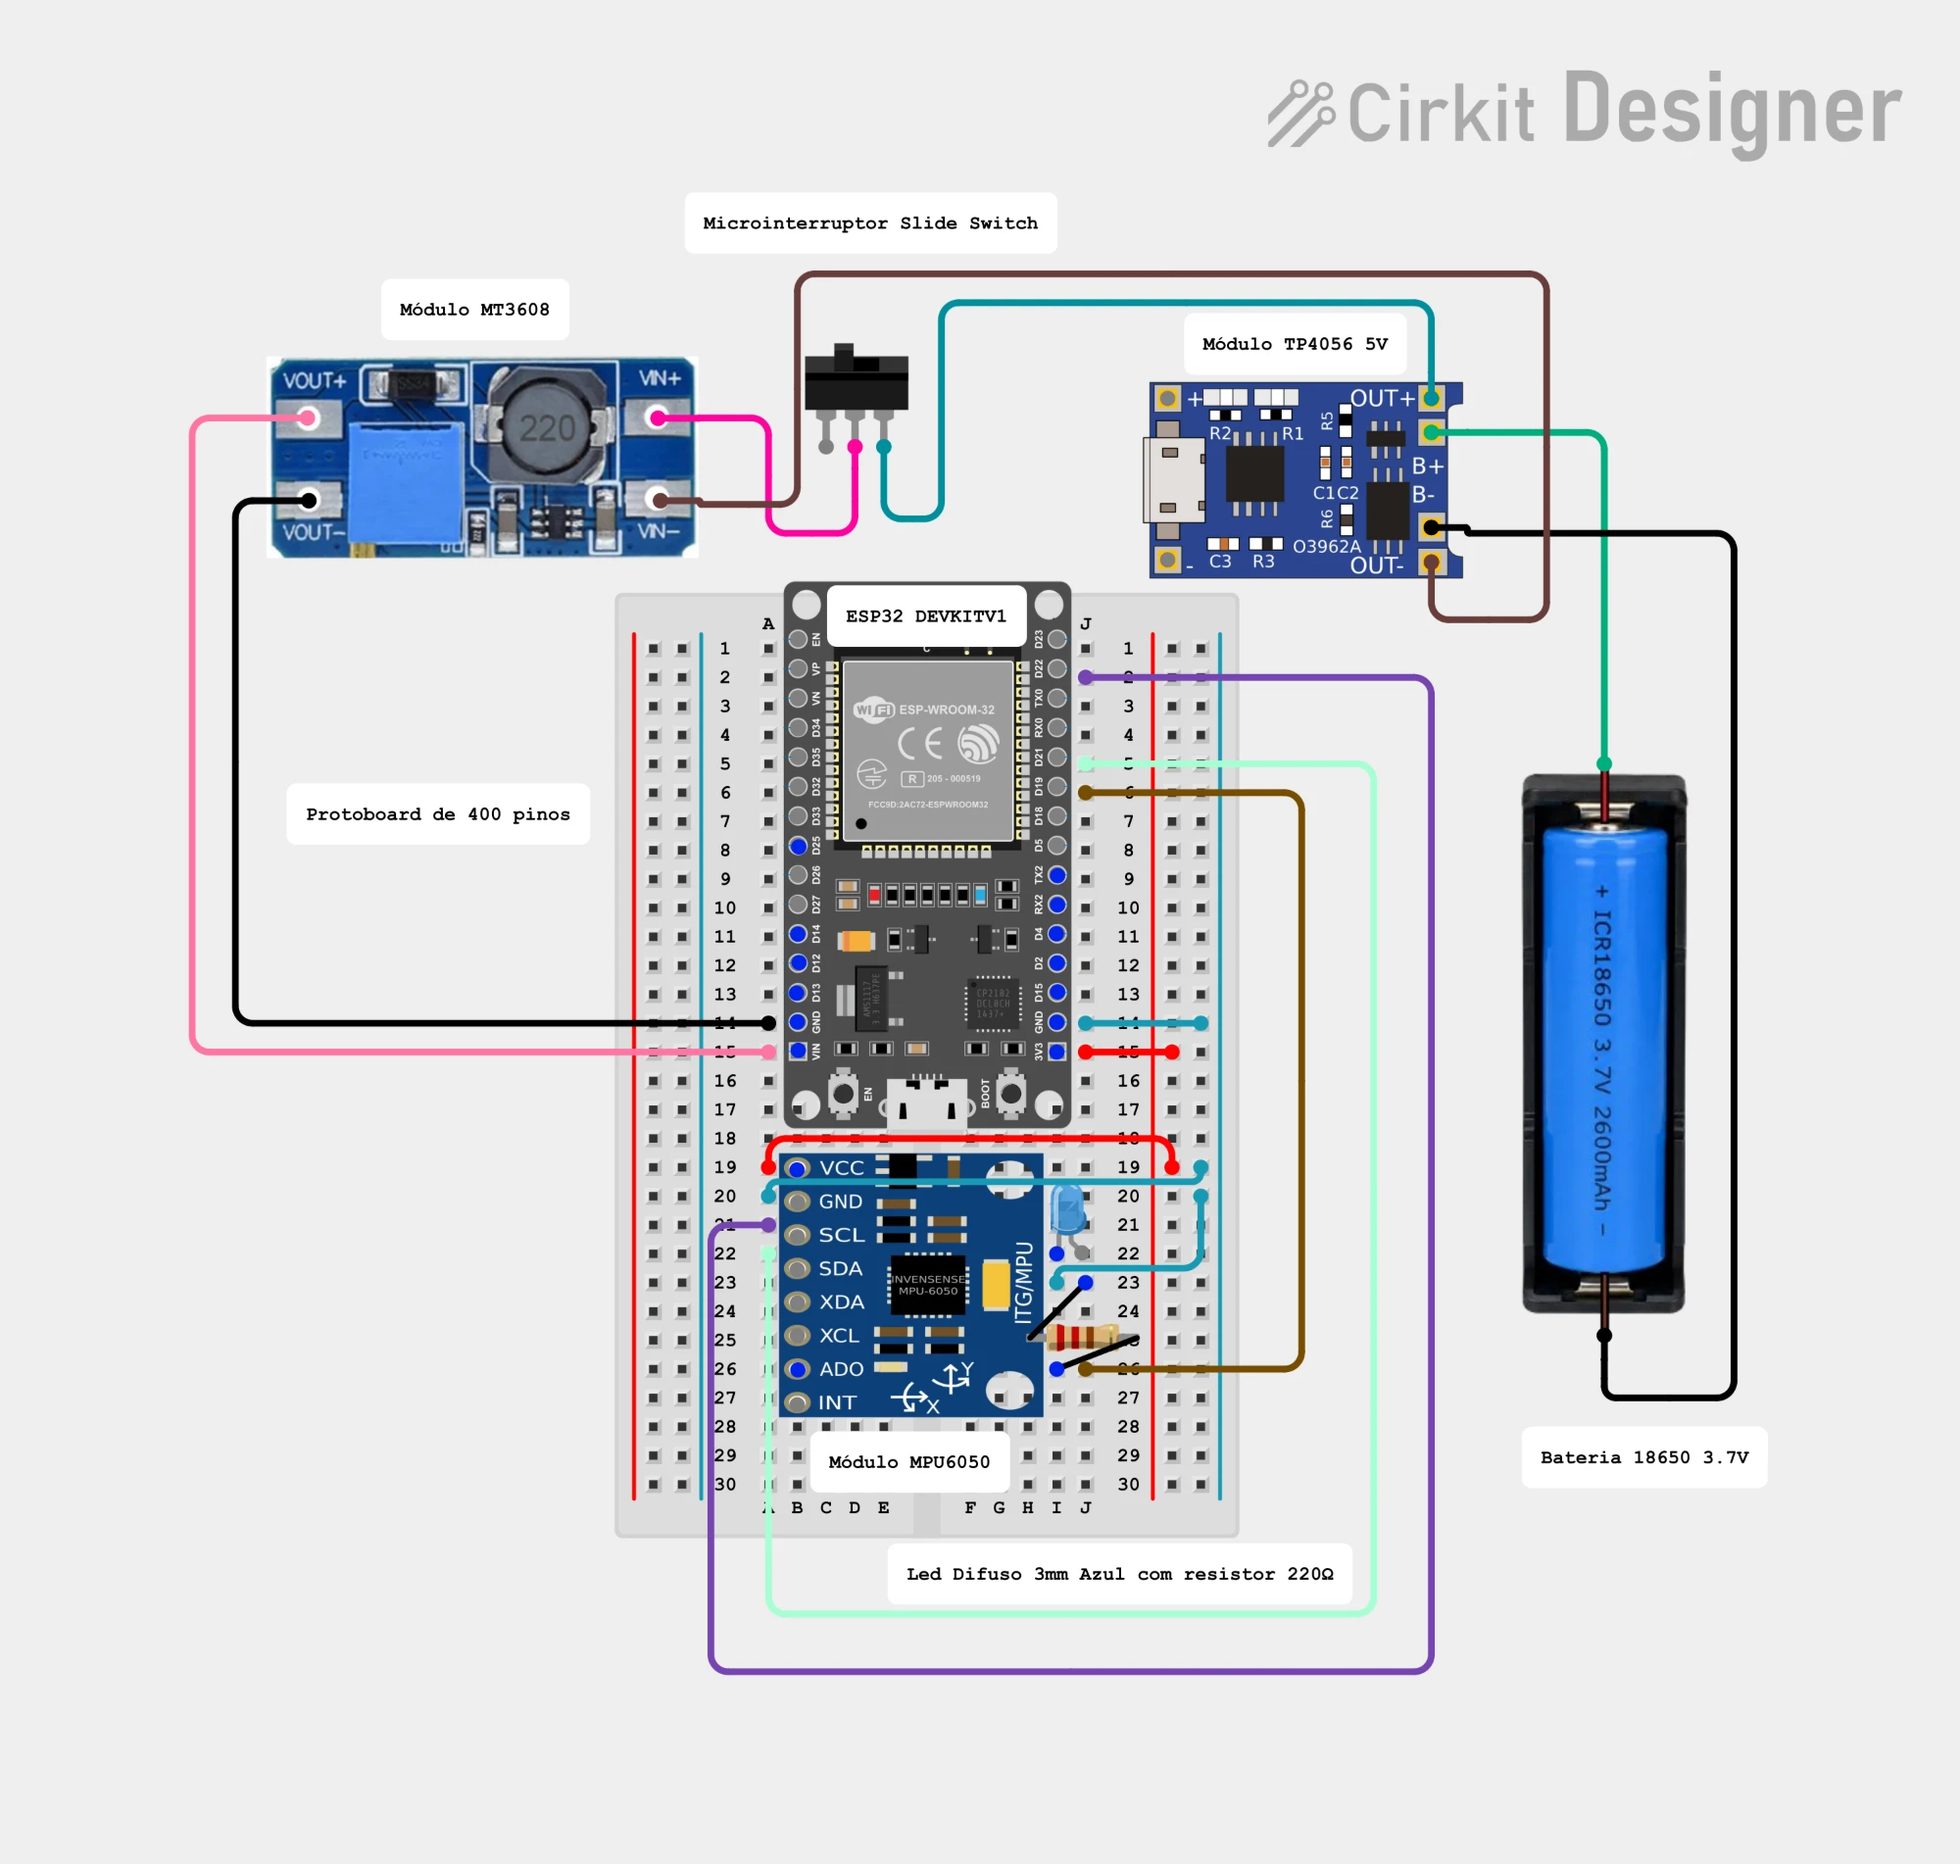
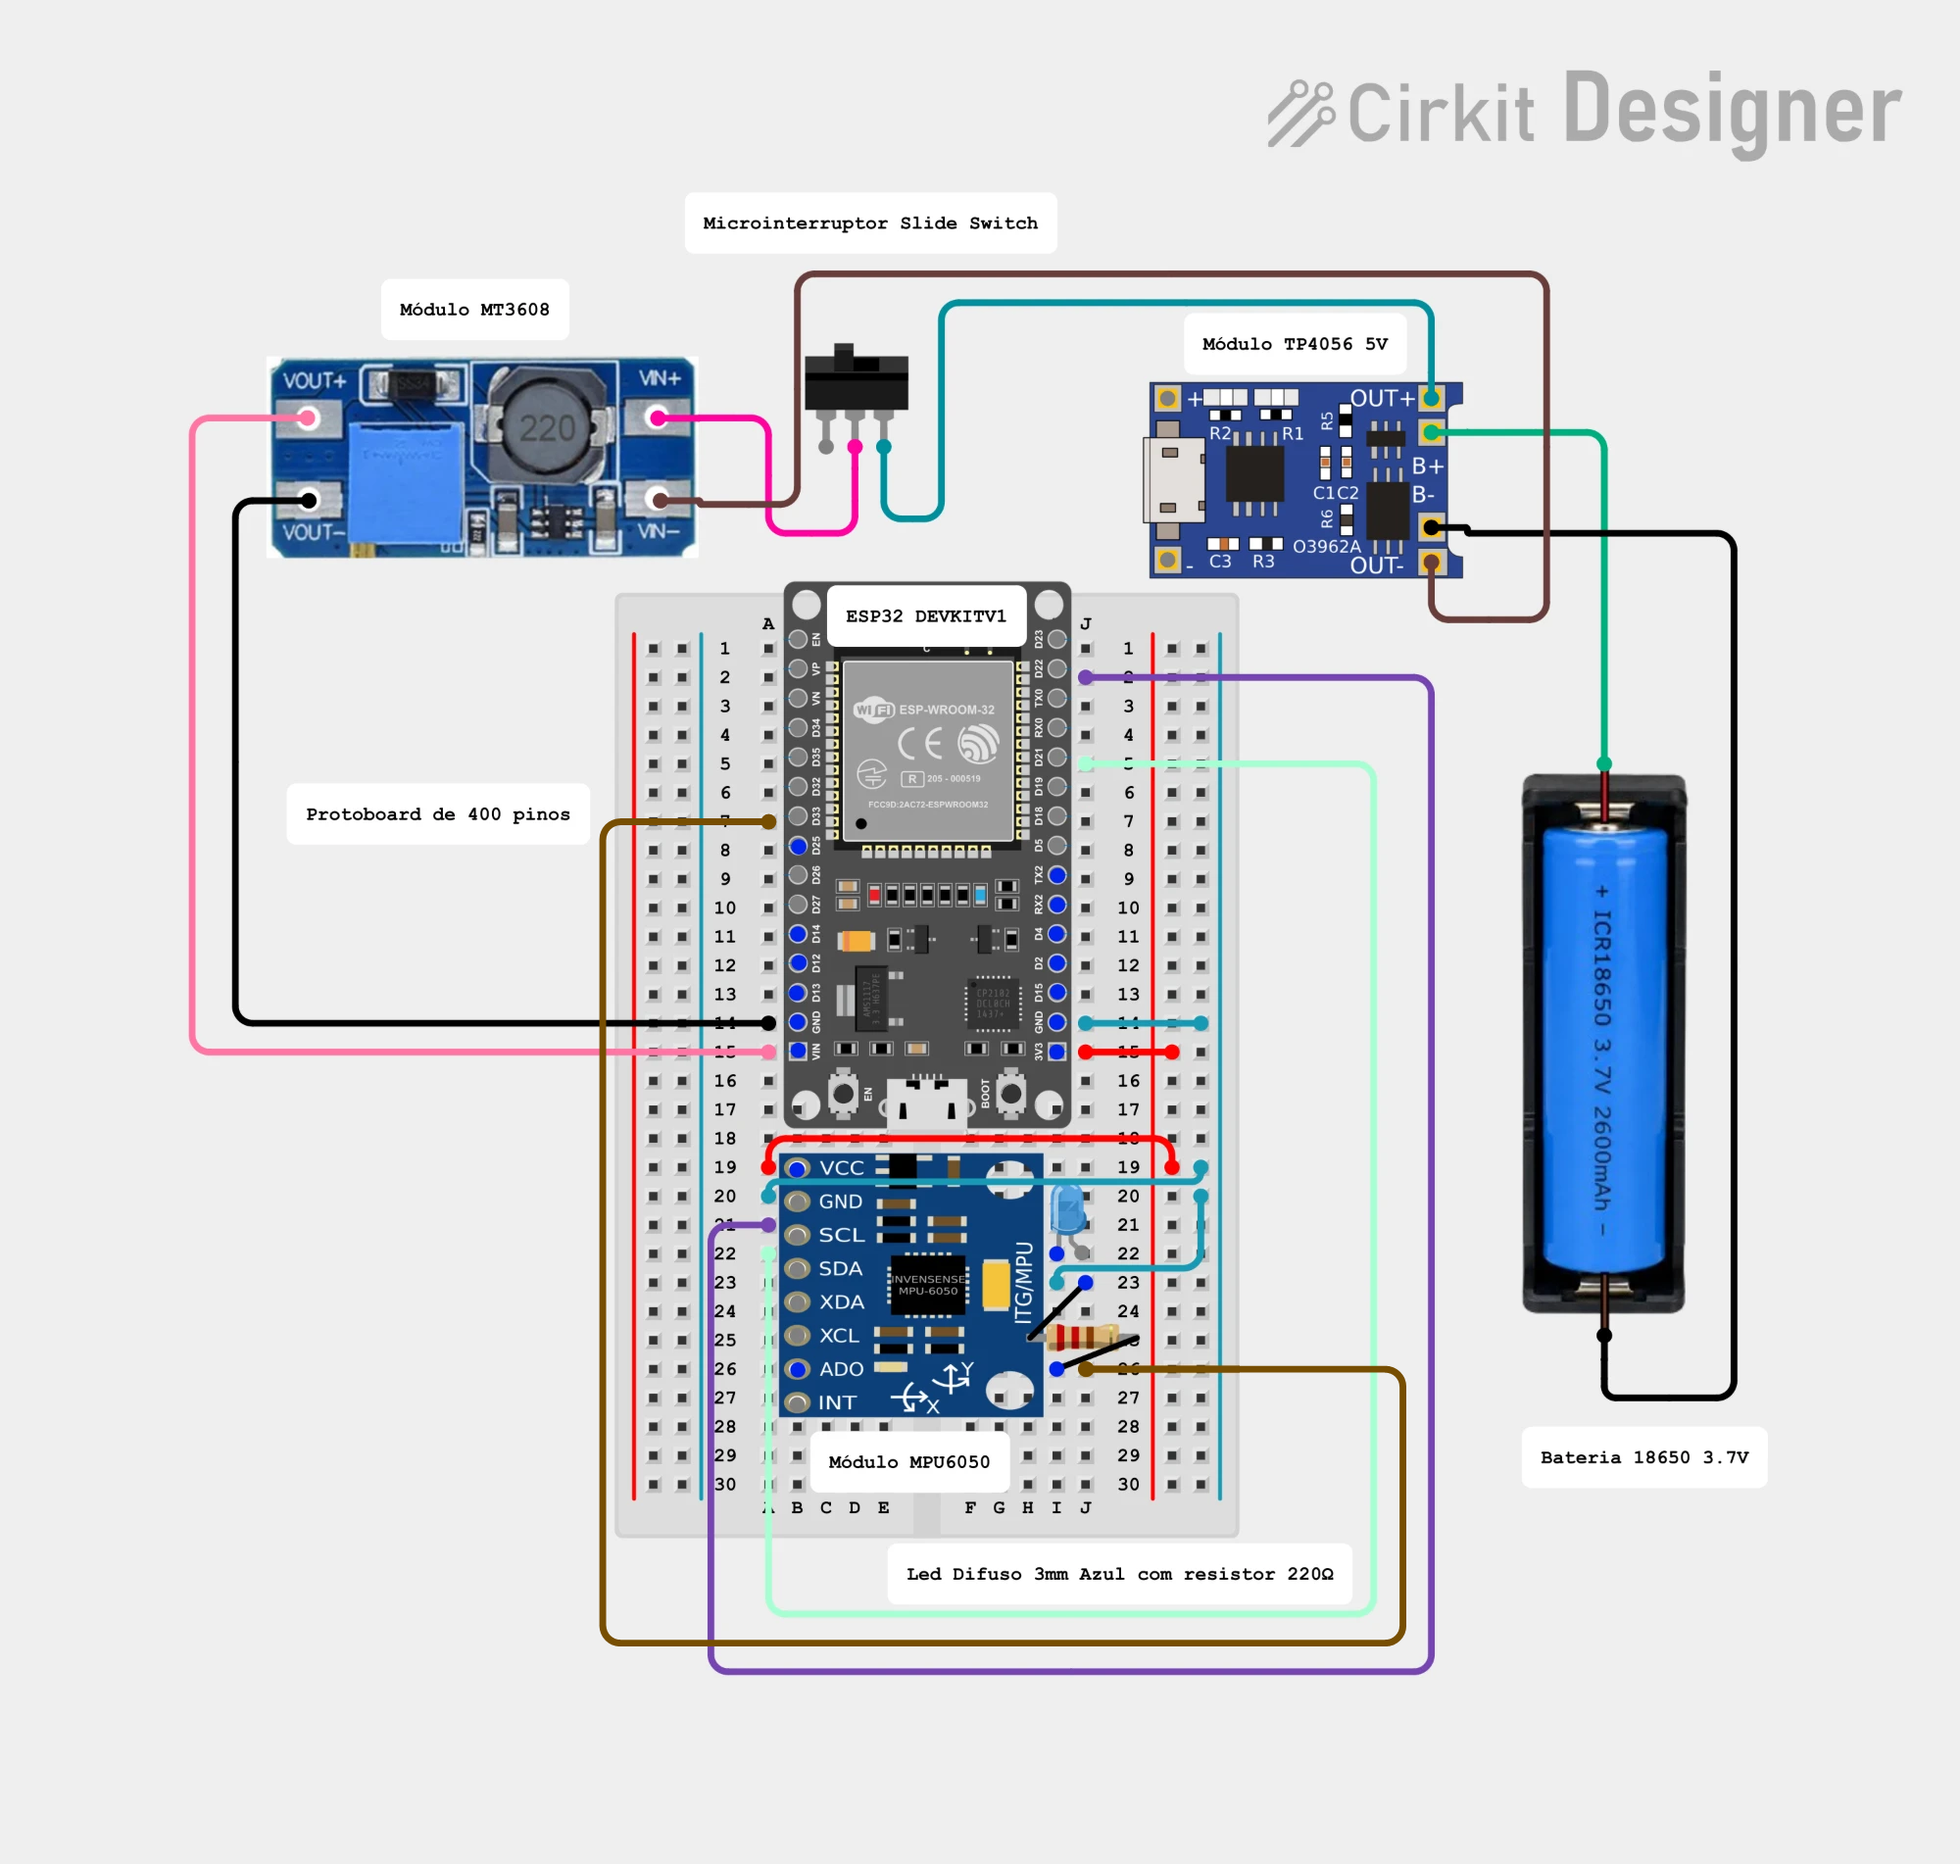
fix(firmware): LED de status no D33, depois que o GPIO19 parou
O pino do LED na placa soldada parou de funcionar e o LED foi ressoldado
no D33 (GPIO33). Muda junto tudo o que dizia GPIO19:

- goniometro-esp32.ino: PINO_LED = 33, com o motivo no comentário para
  ninguém voltar ao 19;
- teste-hardware.ino: PINO_LED_EXTERNO = 33 e as mensagens do teste;
- guias do principal, do reserva e do teste de hardware, incluindo a
  continuidade D33 -> resistor e a ponte de solda com D32/D25, vizinhos
  do D33;
- esquema do circuito (PNG do guia e os três JPEG da página inicial): o
  fio marrom sai do A7 (linha do D33) e chega ao mesmo J26 do resistor;
- página inicial: texto alternativo do esquema e a lista de peças.

Os JPEG saem do PNG editado com o mesmo recorte, a mesma qualidade
(86 e 84) e sem subamostragem de cor, como os anteriores. GPIO33 é
entrada e saída e aceita o LEDC, então o "respirando" segue igual.

Os dois sketches compilam com o core esp32 3.3.11. Não foi gravado
numa placa: nenhum ESP32 estava ligado no USB.

diff --git a/index.html b/index.html
@@ -692,7 +692,7 @@
               <img src="assets/inicio/circuito-1000.jpg" width="1830" height="1719" loading="lazy"
                    srcset="assets/inicio/circuito-500.jpg 500w, assets/inicio/circuito-1000.jpg 1000w, assets/inicio/circuito.jpg 1830w"
                    sizes="(min-width: 1480px) 508px, (min-width: 1100px) calc(50vw - 232px), (min-width: 768px) and (min-height: 501px) calc(100vw - 350px), (min-width: 1025px) calc(100vw - 350px), calc(100vw - 84px)"
-                   alt="Esquema do circuito: a bateria 18650 passa pelo carregador TP4056, pela chave liga/desliga e pelo conversor MT3608 até o pino VIN do ESP32. O ESP32 alimenta o sensor MPU6050 pelo pino 3V3, conversa com ele pelos pinos D21 e D22 e acende o LED azul de status pelo D19, com um resistor de 220 ohms." />
+                   alt="Esquema do circuito: a bateria 18650 passa pelo carregador TP4056, pela chave liga/desliga e pelo conversor MT3608 até o pino VIN do ESP32. O ESP32 alimenta o sensor MPU6050 pelo pino 3V3, conversa com ele pelos pinos D21 e D22 e acende o LED azul de status pelo D33, com um resistor de 220 ohms." />
             </a>
           </figure>
           <div class="card pecas">
@@ -703,7 +703,7 @@
                 <dl class="lista-info">
                   <div><dt>ESP32 DevKit V1</dt><dd>Lê o sensor, calcula o ângulo e envia pelo Wi-Fi.</dd></div>
                   <div><dt>MPU6050 (GY-521)</dt><dd>Acelerômetro e giroscópio, ligado ao ESP32 por I2C (GPIO21 e GPIO22) e alimentado pelos 3,3 V da placa.</dd></div>
-                  <div><dt>LED azul de 3 mm e resistor de 220 Ω</dt><dd>A luz de status, no GPIO19.</dd></div>
+                  <div><dt>LED azul de 3 mm e resistor de 220 Ω</dt><dd>A luz de status, no GPIO33.</dd></div>
                   <div><dt>Botão BOOT</dt><dd>Já vem na placa (GPIO0): reabre a configuração do Wi-Fi e do pareamento.</dd></div>
                 </dl>
               </div>

diff --git a/Firmware/teste-hardware-GUIA.md b/Firmware/teste-hardware-GUIA.md
@@ -34,8 +34,8 @@ placa ESP32 já instalado (Parte 1 do
 Olhe as soldas com boa luz, de preferência com lupa ou com a câmera do
 celular:
 
-- **pontes de solda** entre pinos vizinhos do ESP32, principalmente D21, D19
-  e D22, que ficam lado a lado com outros pinos;
+- **pontes de solda** entre pinos vizinhos do ESP32, principalmente D21 e
+  D22, que ficam lado a lado com outros pinos, e D33, entre o D32 e o D25;
 - **soldas frias**: foscas, em forma de bolinha, ou com o pino "boiando" no
   meio. Uma solda boa é brilhante e tem forma de cone;
 - fios com cobre exposto encostando em outro fio ou em outro pino.
@@ -57,7 +57,7 @@ Coloque o multímetro em **continuidade**.
 | ESP32 **GND** (o pino ao lado do 3V3) | MPU6050 **GND** |
 | ESP32 **D21** | MPU6050 **SDA** |
 | ESP32 **D22** | MPU6050 **SCL** |
-| ESP32 **D19** | uma perna do resistor de 220 Ω |
+| ESP32 **D33** | uma perna do resistor de 220 Ω |
 | perna **curta** do LED (lado chanfrado) | GND |
 
 **A chave:** com ela **ligada**, TP4056 OUT+ ↔ MT3608 VIN+ apita; **desligada**,
@@ -76,6 +76,7 @@ lateral errado da chave.
 | MPU6050 SDA | MPU6050 SCL |
 | MPU6050 SDA ou SCL | GND |
 | ESP32 D21 | D19 (vizinhos) |
+| ESP32 D33 | D32 e D25 (vizinhos) |
 | ESP32 D22 | D23 e TX0 (vizinhos) |
 
 > Um **bip curtinho que para sozinho** é capacitor carregando, e é normal
@@ -157,7 +158,7 @@ de Wi-Fi da clínica, nem do site. Ele testa cada peça e diz qual falhou.
 ==============================================
 Chip ESP32-D0WD-V3 rev 3, 2 nucleos, flash 4 MB
 
---- 1. LED externo (GPIO19) ---
+--- 1. LED externo (GPIO33) ---
   Piscando 3 vezes agora — olhe para o LED azul externo.
   ...
 
@@ -214,7 +215,7 @@ Para repetir os testes, envie `r` no Monitor Serial ou aperte **EN**.
 
 | O que apareceu | Causa provável | O que fazer |
 | --- | --- | --- |
-| LED externo não piscou | LED invertido, solda solta no resistor, ou fio fora do D19 | A perna **longa** do LED vai para o lado do resistor/D19, e a curta para o GND. Confira a continuidade da Fase 1. |
+| LED externo não piscou | LED invertido, solda solta no resistor, ou fio fora do D33 | A perna **longa** do LED vai para o lado do resistor/D33, e a curta para o GND. Confira a continuidade da Fase 1. |
 | LED piscou, mas fraquinho | Normal | LED azul com 220 Ω em 3,3 V passa pouca corrente. Se quiser mais brilho, troque por 100 Ω. |
 | `Nenhum dispositivo I2C encontrado` | MPU sem energia, ou SDA/SCL abertos | O LED do módulo MPU está aceso? Se não, falta 3V3 ou GND. Se está, confira D21↔SDA e D22↔SCL. |
 | `SDA e SCL estao INVERTIDOS` | Fios trocados | Ressolde: SDA → D21, SCL → D22. |
@@ -279,7 +280,7 @@ seguindo o [`goniometro-esp32-GUIA.md`](goniometro-esp32-GUIA.md), sempre
 com a **chave desligada** enquanto o USB estiver ligado. Ele já está
 configurado para este diagrama:
 
-- **LED de status no GPIO19** (o LED externo);
+- **LED de status no GPIO33** (o LED externo);
 - **sem leitura de bateria** (`PINO_BATERIA = -1`), porque o diagrama não tem
   o divisor de tensão. Com o pino solto, o site mostraria um número
   inventado.

diff --git a/Firmware/goniometro-reserva-GUIA.md b/Firmware/goniometro-reserva-GUIA.md
@@ -20,7 +20,7 @@ Ele funciona de dois jeitos ao mesmo tempo:
 | | Principal | Reserva |
 | --- | --- | --- |
 | Alimentação | 18650 + TP4056 + MT3608 + chave | powerbank no USB |
-| Luz de status | LED externo no GPIO19 | LED que já vem na placa (GPIO2) |
+| Luz de status | LED externo no GPIO33 | LED que já vem na placa (GPIO2) |
 | Bibliotecas | Adafruit MPU6050 e WiFiManager | nenhuma |
 | Sensor | só MPU6050 legítimo (WHO_AM_I 0x68) | MPU6050 ou clone (MPU6500, MPU9250...) |
 | Sem internet | não mede | mede pela página do aparelho |

diff --git a/Firmware/goniometro-esp32-GUIA.md b/Firmware/goniometro-esp32-GUIA.md
@@ -47,7 +47,7 @@ próprias, de propósito, para não depender de mais bibliotecas.
 | GND | GND |
 | SDA | GPIO21 |
 | SCL | GPIO22 |
-| LED de status | GPIO19 → resistor 220 Ω → LED azul → GND |
+| LED de status | GPIO33 → resistor 220 Ω → LED azul → GND |
 | Botão de reconfiguração | GPIO0 — é o BOOT, já existe na placa |
 | Bateria (opcional) | divisor 100 kΩ / 100 kΩ → GPIO34 |
 
